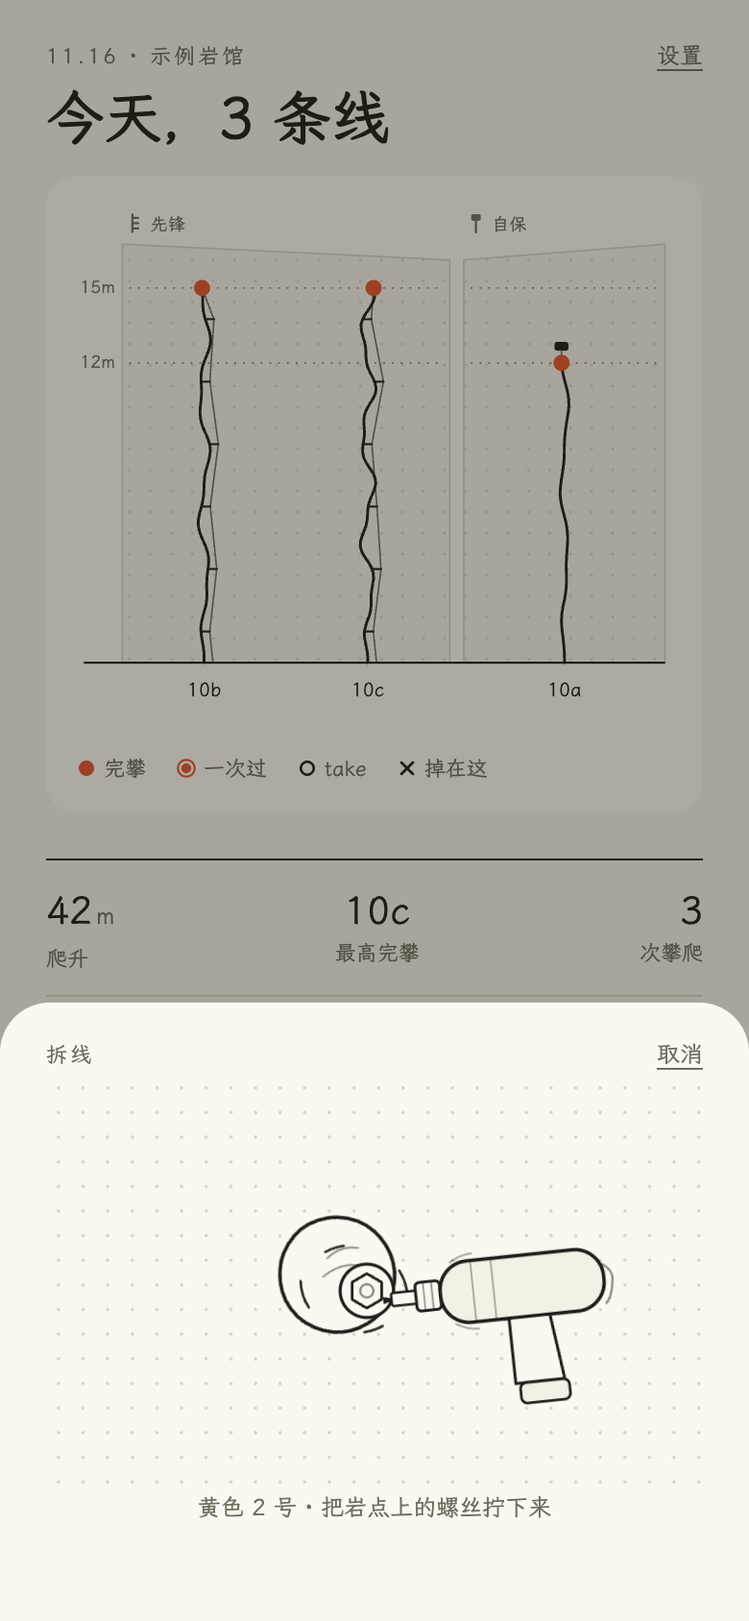
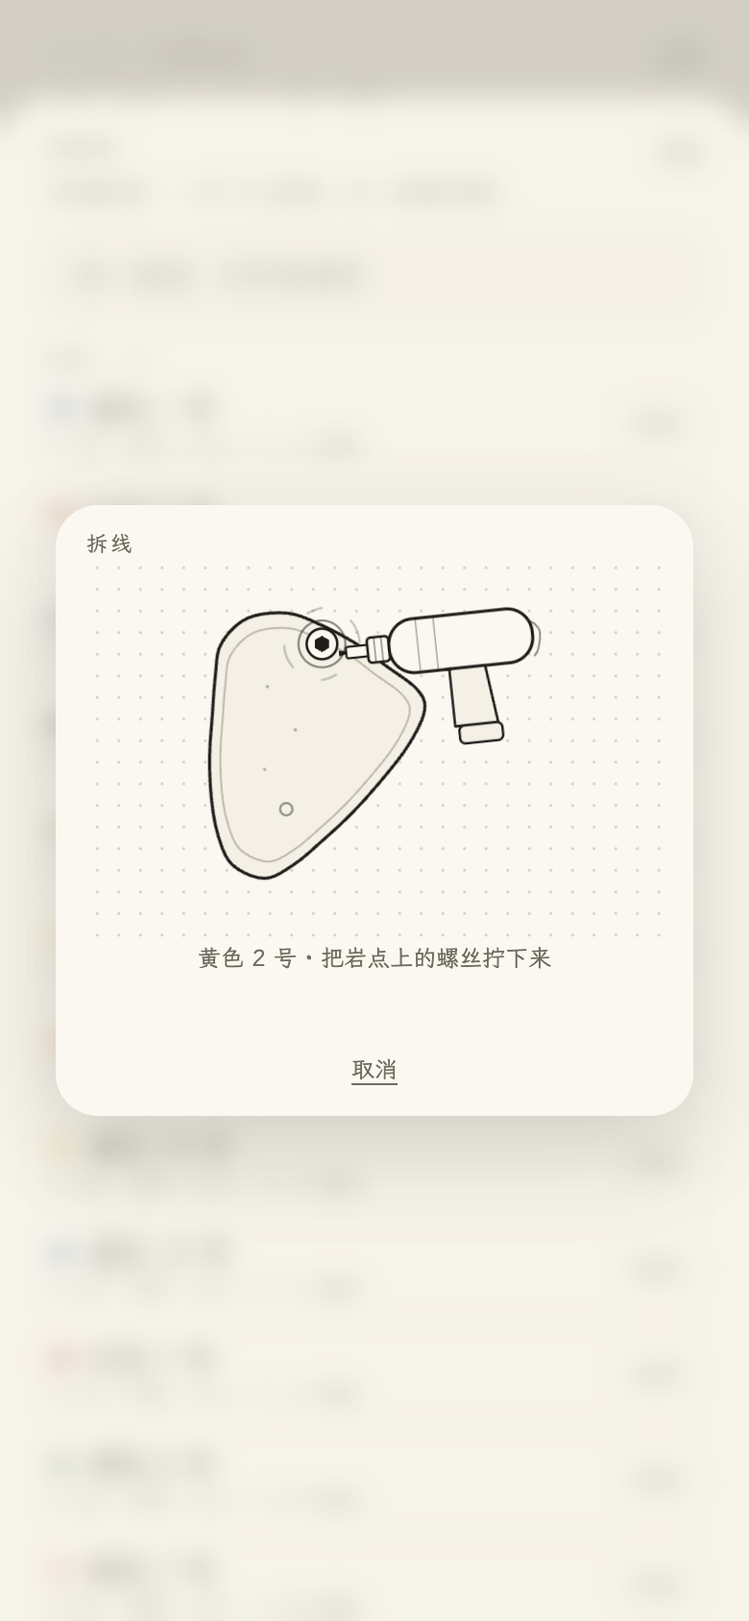
拆线动画重做：全屏居中不换页、真实 jug 岩点、M10 螺丝 + 磁吸、放慢到约 3.2 秒
- 全屏居中层 + 背景模糊，动画期间线路簿/详情页不动，不再露出今天页
- 岩点参照真实 XXL jug 照片描出轮廓，加内圈倒角和两个安装孔，尺寸放大
- 螺丝改为 M10 内六角圆柱头（ISO 4762），比岩点小；拧出后磁吸在批头上随工具抽走
- 岩点掉落、墙上留下螺丝孔（tee nut）；时间轴放慢到约 3.2 秒，取消 / reduced-motion 保留
- 产品文档 5.5 / 8.2 / 9.4 与版本历史更新；补拆线-磁吸截图

diff --git a/shengji-prototype.html b/shengji-prototype.html
@@ -160,22 +160,32 @@ button.stamp{background:none;border:none;padding:0;font:inherit;cursor:pointer}
 .bookrow .bookopen em{display:block;font-style:normal;font-family:var(--mono);font-size:11px;color:var(--muted);margin-top:3px;white-space:nowrap;overflow:hidden;text-overflow:ellipsis}
 .bookact{flex:none;border:1px solid var(--hair);background:none;border-radius:14px;padding:5px 11px;font:inherit;font-size:12px;color:var(--muted);cursor:pointer}
 .bookact:active{opacity:.6}
-/* 拆线动画：电动螺丝刀把岩点上的螺丝拧下来 */
-.stripwrap{text-align:center}
-.strip-hint{font-size:12px;color:var(--muted);margin-top:4px}
+/* 拆线：全屏居中层 + 背景模糊，动画期间页面不换 */
+.stripLayer{position:absolute;inset:0;z-index:40;display:flex;align-items:center;justify-content:center;padding:26px;
+  background:rgba(244,240,230,.55);-webkit-backdrop-filter:blur(7px);backdrop-filter:blur(7px);
+  opacity:0;pointer-events:none;transition:opacity .22s ease}
+.stripLayer.on{opacity:1;pointer-events:auto}
+.stripCard{width:100%;max-width:332px;background:var(--card);border-radius:22px;padding:14px 16px 16px;
+  box-shadow:0 18px 50px rgba(40,35,25,.18);text-align:center;transform:translateY(8px) scale(.98);
+  transition:transform .26s cubic-bezier(.2,.8,.2,1)}
+.stripLayer.on .stripCard{transform:none}
+.strip-hint{font-size:12px;color:var(--muted);margin-top:2px}
 .strip-done{font-family:var(--serif);font-size:20px;font-weight:600;color:var(--accent);margin-top:2px;opacity:0}
+.stripCard .link{margin-top:6px}
 #stBolt,#stHold{transform-box:fill-box;transform-origin:center}
-#stToolWrap{transform:translate(110px,0)}
-.stripgo #stToolWrap{animation:stToolIn .2s cubic-bezier(.2,.8,.2,1) .05s both,stToolOut .18s ease-in .7s both}
-.stripgo #stBolt{animation:stBolt .46s linear .24s both}
-.stripgo #stSpin{animation:stSpinA .46s linear .24s both}
-.stripgo #stHold{animation:stHoldFall .52s cubic-bezier(.5,.05,.9,.5) .76s both}
-.stripgo #stripDone{animation:stDone .28s ease-out 1.12s both}
-@keyframes stToolIn{from{transform:translate(110px,0)}to{transform:translate(0,0)}}
-@keyframes stToolOut{from{transform:translate(0,0)}to{transform:translate(112px,0)}}
-@keyframes stBolt{0%{transform:rotate(0);opacity:1}55%{transform:translate(7px,1px) rotate(720deg);opacity:1}100%{transform:translate(15px,-3px) rotate(900deg);opacity:0}}
-@keyframes stSpinA{0%,100%{opacity:0}20%,65%{opacity:.9}}
-@keyframes stHoldFall{0%{transform:translate(0,0) rotate(0)}18%{transform:translate(1px,-3px) rotate(-1.5deg)}100%{transform:translate(30px,170px) rotate(16deg)}}
+#stToolWrap{transform:translate(200px,0)}
+.stripgo #stToolWrap{animation:stToolIn .3s cubic-bezier(.2,.8,.2,1) .12s both,stToolOut .7s ease-in 1.6s both}
+.stripgo #stBolt{animation:stBoltSpin 1s cubic-bezier(.4,0,.6,1) .5s both}
+.stripgo #stSpin{animation:stSpinA 1s linear .5s both}
+.stripgo #stBitScrew{animation:stScrewOn .14s linear 1.57s both}
+.stripgo #stHold{animation:stHoldFall .95s cubic-bezier(.5,.05,.9,.5) 1.95s both}
+.stripgo #stripDone{animation:stDone .3s ease-out 2.75s both}
+@keyframes stToolIn{from{transform:translate(200px,0)}to{transform:translate(0,0)}}
+@keyframes stToolOut{from{transform:translate(0,0)}to{transform:translate(200px,0)}}
+@keyframes stBoltSpin{0%{transform:rotate(0);opacity:1}85%{transform:translate(7px,0) rotate(1080deg);opacity:1}100%{transform:translate(9px,0) rotate(1080deg);opacity:0}}
+@keyframes stSpinA{0%,100%{opacity:0}12%,88%{opacity:.9}}
+@keyframes stScrewOn{from{opacity:0;transform:translateX(-5px)}to{opacity:1;transform:none}}
+@keyframes stHoldFall{0%{transform:none;opacity:1}16%{transform:translate(1px,-4px) rotate(-1.2deg);opacity:1}30%{transform:translate(2px,0) rotate(0);opacity:1}100%{transform:translate(26px,150px) rotate(12deg);opacity:0}}
 @keyframes stDone{from{opacity:0;transform:translateY(4px)}to{opacity:1;transform:none}}
 nav{position:absolute;left:0;right:0;bottom:0;display:flex;background:linear-gradient(to top,var(--paper) 72%,transparent);padding:26px 18px calc(22px + env(safe-area-inset-bottom))}
 nav button{flex:1;background:none;border:none;font-family:var(--serif);font-size:15px;color:var(--muted);padding:8px 0;cursor:pointer;position:relative}
@@ -328,6 +338,7 @@ button:active:not(:disabled),label.ghostbtn:active{opacity:.6}
   </nav>
   <div class="veil" id="veil"></div>
   <div class="sheet" id="sheet"></div>
+  <div class="stripLayer" id="stripLayer"></div>
 </div>
 
 <script>
@@ -667,24 +678,77 @@ function restoreRoute(r){const t=twinOf(r);
     yes:'合并成一条',no:'改个名再装回去',onYes:()=>{mergeRoutes(r,t);closeSheet();renderAll()},onNo:()=>renameAsk(r,true)});return}
   r.retired=false;persist();
   if(mode==='routes')renderSheet();else{mode='pick';closeSheet();renderAll()}}
-/* ---------- 拆线：拿电动螺丝刀把岩点上的螺丝拧下来 ---------- */
-let stripRid=null,stripBack=null,stripTimer=null;
+/* ---------- 拆线：全屏居中层 + 电动螺丝刀把岩点上的 M10 螺丝拧下来（螺丝带磁，被批头吸走） ---------- */
+let stripRid=null,stripBack=null,stripTimer=null,stripVib=null;
 function startStrip(rid,back){
   stripRid=rid;stripBack=back||null;
   if(matchMedia('(prefers-reduced-motion: reduce)').matches){finishStrip();return}
-  mode='strip';renderSheet();phone.classList.add('open');
+  const r=R(rid),layer=$('stripLayer');
+  layer.innerHTML=`<div class="stripCard" id="stripwrap">
+    <div class="row"><div class="eyebrow">拆线</div><span></span></div>
+    <svg viewBox="0 0 320 214" width="100%" style="display:block" fill="none" stroke="var(--ink)" stroke-linecap="round" stroke-linejoin="round">
+      <defs><pattern id="stripDots" width="12" height="12" patternUnits="userSpaceOnUse"><circle cx="6" cy="6" r=".8" fill="var(--hair)" stroke="none"/></pattern></defs>
+      <rect width="320" height="214" fill="url(#stripDots)" stroke="none"/>
+      <g id="stSocket"><circle cx="130.8" cy="48.3" r="9.5" stroke="var(--muted)" stroke-width="1.2" opacity=".8"/><circle cx="130.8" cy="48.3" r="5" stroke="var(--muted)" stroke-width="1" opacity=".7"/></g>
+      <g id="stHold">
+        <path d="M89.2 34.1C95.3 31.3 104.7 30.6 111.6 31.2C118.5 31.9 124.4 35.1 130.8 38.0C137.2 40.9 144.1 44.6 150.0 48.3C155.9 52.0 160.4 56.0 166.0 60.2C171.6 64.4 180.0 69.3 183.6 73.5C187.2 77.7 188.6 80.1 187.8 85.3C187.0 90.5 183.0 97.9 178.8 104.6C174.6 111.3 168.1 118.9 162.8 125.3C157.5 131.7 152.1 137.6 146.8 143.0C141.5 148.4 136.1 153.1 130.8 157.8C125.5 162.5 120.1 167.7 114.8 171.1C109.5 174.5 104.4 178.5 98.8 178.5C93.2 178.5 85.5 175.0 81.2 171.1C76.9 167.2 75.2 161.1 73.2 154.9C71.2 148.7 70.2 141.5 69.4 134.1C68.6 126.7 68.3 118.4 68.4 110.5C68.5 102.6 69.5 94.2 70.0 86.8C70.5 79.4 70.8 72.5 71.6 66.1C72.4 59.7 71.9 53.6 74.8 48.3C77.7 43.0 83.1 37.0 89.2 34.1Z" fill="var(--paper)" stroke-width="1.7"/>
+        <path d="M92.7 42.1C98.1 39.6 106.3 39.0 112.4 39.6C118.5 40.2 123.6 43.1 129.3 45.6C134.9 48.1 141.0 51.4 146.2 54.6C151.3 57.9 155.3 61.4 160.2 65.1C165.2 68.8 172.5 73.1 175.7 76.8C178.9 80.5 180.1 82.6 179.4 87.2C178.7 91.8 175.2 98.3 171.5 104.2C167.8 110.1 162.1 116.8 157.4 122.4C152.7 128.0 148.0 133.2 143.3 138.0C138.7 142.7 134.0 146.9 129.3 151.0C124.6 155.1 119.9 159.7 115.2 162.7C110.5 165.7 106.0 169.2 101.1 169.2C96.2 169.2 89.4 166.2 85.6 162.7C81.9 159.2 80.3 153.9 78.6 148.4C76.8 143.0 75.9 136.7 75.2 130.1C74.5 123.6 74.3 116.3 74.4 109.4C74.4 102.4 75.3 95.0 75.8 88.5C76.2 82.0 76.5 76.0 77.2 70.3C77.9 64.7 77.4 59.3 80.0 54.6C82.6 49.9 87.3 44.7 92.7 42.1Z" stroke="var(--muted)" stroke-width="1" opacity=".45"/>
+        <circle cx="100.5" cy="72" r=".9" fill="var(--muted)" stroke="none" opacity=".55"/>
+        <circle cx="116" cy="96" r=".9" fill="var(--muted)" stroke="none" opacity=".55"/>
+        <circle cx="99" cy="118" r=".9" fill="var(--muted)" stroke="none" opacity=".5"/>
+        <circle cx="130.8" cy="48.3" r="13" stroke-width="1.1" opacity=".55"/>
+        <circle cx="111" cy="140.1" r="3.4" stroke-width="1.1" opacity=".5"/>
+      </g>
+      <g id="stBolt">
+        <circle cx="130.8" cy="48.3" r="8.5" fill="var(--card)" stroke-width="1.4"/>
+        <path d="M130.8 43.8l3.9 2.25v4.5l-3.9 2.25-3.9-2.25v-4.5z" fill="var(--ink)" stroke="none"/>
+      </g>
+      <g id="stSpin" opacity="0">
+        <path d="M146.8 35.3a20 20 0 0 1 5 12" stroke-width="1.2"/>
+        <path d="M114.8 61.3a20 20 0 0 1-5-12" stroke-width="1.2"/>
+        <path d="M138.8 65.3a20 20 0 0 1-8 3" stroke-width="1.2"/>
+        <path d="M122.8 31.3a20 20 0 0 1 8-3" stroke-width="1.2"/>
+      </g>
+      <g id="stToolWrap"><g transform="translate(194 48) rotate(-6)">
+        <path d="M-54-1.7l7 1.7-7 1.7z" fill="var(--ink)" stroke="none"/>
+        <rect x="-50" y="-3.2" width="13" height="6.4" rx="1.2" stroke-width="1.2" fill="var(--card)"/>
+        <rect x="-38" y="-7" width="12" height="14" rx="2.2" stroke-width="1.4" fill="var(--card)"/>
+        <path d="M-34-7v14M-30-7v14" stroke-width=".8" opacity=".5"/>
+        <rect x="-26" y="-15" width="80" height="30" rx="14" stroke-width="1.7" fill="var(--card)"/>
+        <path d="M-10-15v30M0-15v30" stroke-width=".8" opacity=".38"/>
+        <path d="M54-6.5c3 2.2 4.2 4.4 4.2 6.5S57 10.3 54 12.5" stroke-width="1.1" opacity=".5"/>
+        <path d="M6 15h20l4 32H6z" fill="var(--paper)" stroke-width="1.4"/>
+        <rect x="8" y="47" width="24" height="10" rx="3" fill="var(--paper)" stroke-width="1.3"/>
+        <path d="M4 15h3" stroke-width="1.6"/>
+        <g id="stBitScrew" opacity="0">
+          <circle cx="-63.2" cy="0" r="5" fill="var(--card)" stroke-width="1.2"/>
+          <path d="M-67.8-3l-4.2 1.4M-67.8 0h-5.4M-67.8 3l-4.2-1.4" stroke-width="1"/>
+        </g>
+      </g></g>
+    </svg>
+    <div class="strip-hint">${r?esc(r.name)+' · ':''}把岩点上的螺丝拧下来</div>
+    <div class="strip-done" id="stripDone">已拆线</div>
+    <button class="link" id="stripCancel">取消</button>
+  </div>`;
+  layer.classList.add('on');
   requestAnimationFrame(()=>{const w=$('stripwrap');if(w)w.classList.add('stripgo')});
-  clearTimeout(stripTimer);stripTimer=setTimeout(finishStrip,1650);
+  clearTimeout(stripTimer);clearTimeout(stripVib);
+  stripVib=setTimeout(()=>{if(navigator.vibrate)navigator.vibrate(8)},1600);
+  stripTimer=setTimeout(finishStrip,3250);
 }
-function cancelStrip(){if(!stripRid)return false;clearTimeout(stripTimer);stripRid=null;stripBack=null;stripTimer=null;mode='pick';return true}
+function cancelStrip(){if(!stripRid)return false;
+  clearTimeout(stripTimer);clearTimeout(stripVib);stripRid=null;stripBack=null;stripTimer=null;stripVib=null;
+  const layer=$('stripLayer');if(layer)layer.classList.remove('on');return true}
 function finishStrip(){
   if(!stripRid)return;
-  const r=R(stripRid),back=stripBack;stripRid=null;stripBack=null;stripTimer=null;
+  const r=R(stripRid),back=stripBack;stripRid=null;stripBack=null;stripTimer=null;clearTimeout(stripVib);
+  const layer=$('stripLayer');if(layer)layer.classList.remove('on');
   if(r){r.retired=true;persist()}
   if(navigator.vibrate)navigator.vibrate(12);
   if(back==='routes'){mode='routes';renderSheet()}
-  else{mode='pick';closeSheet();renderAll()}
+  else{mode='pick';renderAll()}
 }
+$('stripLayer').onclick=e=>{if(e.target.closest('#stripCancel')||e.target===$('stripLayer'))cancelStrip()};
 $('p-route').onclick=e=>{const b=e.target.closest('button');if(!b)return;const r=R(curRid);
   if(b.id==='rback')go(backTo);
   else if(b.dataset.rs!==undefined){routeSel=b.dataset.rs||null;renderRoute()}
@@ -1304,94 +1368,6 @@ function renderSheet(){
       <div id="bookList">${bookListHtml()}</div>`;
     const q=$('bookQ');if(q)q.oninput=e=>{routeBookQ=e.target.value;const bl=$('bookList');if(bl)bl.innerHTML=bookListHtml()};
     return}
-  if(mode==='strip'){const r=R(stripRid);
-    el.innerHTML=`<div class="stripwrap" id="stripwrap">
-      <div class="row"><div class="eyebrow">拆线</div><button class="link" id="stripCancel">取消</button></div>
-      <svg viewBox="0 0 320 200" width="100%" style="display:block;margin-top:4px" fill="none" stroke="var(--ink)" stroke-linecap="round" stroke-linejoin="round">
-        <defs><pattern id="stripDots" width="12" height="12" patternUnits="userSpaceOnUse"><circle cx="6" cy="6" r=".8" fill="var(--hair)" stroke="none"/></pattern></defs>
-        <rect width="320" height="200" fill="url(#stripDots)" stroke="none"/>
-        <g id="stHold">
-          <path d="M124 75c9-7 22-8 32-2 11 7 16 20 13 31-3 13-16 22-29 21-12-1-22-9-25-20-3-11 0-22 9-30z" fill="var(--card)" stroke-width="1.7"/>
-          <path d="M137 89c4-4 9-6 15-5M135 98c6-5 13-7 20-5" stroke-width="1" opacity=".45"/>
-          <circle cx="150" cy="104" r="6.2" stroke-width="1.1" opacity=".4"/>
-        </g>
-        <g id="stBolt"><circle cx="150" cy="104" r="13" fill="var(--card)" stroke-width="1.5"/>
-          <path d="M150 95.6l7.2 4.2v8.4l-7.2 4.2-7.2-4.2v-8.4z" stroke-width="1.3"/>
-          <circle cx="150" cy="104" r="3.2" stroke-width="1.1" opacity=".5"/></g>
-        <g id="stSpin" opacity="0">
-          <path d="M172 95a24 24 0 0 1 4 13" stroke-width="1.3"/>
-          <path d="M128 113a24 24 0 0 1-4-13" stroke-width="1.3"/>
-          <path d="M164 122a24 24 0 0 1-9 3" stroke-width="1.3"/>
-          <path d="M136 86a24 24 0 0 1 9-3" stroke-width="1.3"/>
-        </g>
-        <g id="stToolWrap"><g transform="translate(218 104) rotate(-6)">
-          <path d="M-54-1.7l7 1.7-7 1.7z" fill="var(--ink)" stroke="none"/>
-          <rect x="-50" y="-3.2" width="13" height="6.4" rx="1.2" stroke-width="1.2" fill="var(--card)"/>
-          <rect x="-38" y="-7" width="12" height="14" rx="2.2" stroke-width="1.4" fill="var(--card)"/>
-          <path d="M-34-7v14M-30-7v14" stroke-width=".8" opacity=".5"/>
-          <rect x="-26" y="-15" width="80" height="30" rx="14" stroke-width="1.7" fill="var(--paper)"/>
-          <path d="M-10-15v30M0-15v30" stroke-width=".8" opacity=".38"/>
-          <path d="M-20-15c4-2.4 7-3.4 11-3.4M-20 15c4 2.4 7 3.4 11 3.4" stroke-width="1" opacity=".35"/>
-          <path d="M54-6.5c3 2.2 4.2 4.4 4.2 6.5S57 10.3 54 12.5" stroke-width="1.1" opacity=".5"/>
-          <path d="M6 15h20l4 32H6z" fill="var(--card)" stroke-width="1.4"/>
-          <rect x="8" y="47" width="24" height="10" rx="3" fill="var(--paper)" stroke-width="1.3"/>
-          <path d="M4 15h3" stroke-width="1.6"/>
-        </g></g>
-      </svg>
-      <div class="strip-hint">${r?esc(r.name)+' · ':''}把岩点上的螺丝拧下来</div>
-      <div class="strip-done" id="stripDone">已拆线</div>
-    </div>`;
-    return}
-  if(mode==='set'){el.innerHTML=`
-    <div class="row"><div class="eyebrow">设置</div><button class="link" id="close">完成</button></div>
-    <div class="lbl">岩馆</div>
-    <button class="ghostbtn" id="gymBtn">${data.gym?esc(data.gym)+' · 切换或添加':'添加岩馆'}</button>
-    <div class="lbl">线路</div>
-    <button class="ghostbtn" id="openBook">线路簿 · 拆线 / 装回去</button>
-    <div class="lbl">备份</div>
-    <div class="two"><button class="ghostbtn" id="bkFile">存成文件</button><button class="ghostbtn" id="backup">复制成文字</button></div>
-    <div class="lbl">恢复</div>
-    <div class="two"><button class="ghostbtn" id="rsFile">从文件恢复</button><button class="ghostbtn" id="restore">粘贴文字恢复</button></div>
-    <input type="file" id="rsIn" accept=".json,application/json,text/plain" style="display:none">
-    <div class="sub" style="margin-top:8px">记录只存在这台设备的浏览器里。换手机或清浏览器数据之前，先备份一份，存到"文件"或发给自己。${data.bk?'上次备份：'+lab(data.bk)+'。':'还没有备份过。'}</div>
-    ${hasDemo()?'<div style="margin-top:14px;text-align:center"><button class="link" id="wipe2">清空示例数据</button></div>':''}`;return}
-  if(mode==='ask'){const a=askCfg;el.innerHTML=`
-    <div class="eyebrow">${a.title}</div>
-    <div style="margin-top:12px;font-size:14px;line-height:1.75">${a.body}</div>
-    ${a.input==null?'':a.area?`<textarea class="field" id="askIn" style="height:120px;padding:10px 14px;resize:none">${esc(a.input)}</textarea>`:`<input class="field" id="askIn" maxlength="24" value="${esc(a.input)}">`}
-    <div class="sub" id="askErr" style="color:var(--ink);min-height:20px;margin-top:6px"></div>
-    ${a.lock?`<div class="lock" id="lock">${lockSvg(a.yes)}</div><div class="sub" style="text-align:center">按住黑色锁套，往左拧开</div><button class="ghostbtn" id="askNo">${a.no||'取消'}</button>`
-      :`<div class="two"><button class="ghostbtn" id="askNo">${a.no||'取消'}</button><button class="save" id="askYes">${a.yes||'确定'}</button></div>`}`;bindLock();return}
-  if(mode==='gymf'){const gy=data.gyms.map(g=>{const cs=data.climbs.filter(c=>R(c.rid).gym===g.name);return{n:g.name,c:cs.length,d:new Set(cs.map(c=>c.date)).size,m:meters(cs)}}).filter(g=>g.c).sort((a,b)=>b.m-a.m);
-    el.innerHTML=`<div class="row"><div class="eyebrow">只看哪家岩馆</div><button class="link" id="close">取消</button></div>
-     <div class="gfl"><button data-gf="" class="${gymSel?'':'on'}"><span>全部岩馆</span><em>${dates().length} 天 · ${data.climbs.length} 次</em></button>
-       ${gy.map(g=>`<button data-gf="${esc(g.n)}" class="${g.n===gymSel?'on':''}"><span>${esc(g.n)}</span><em>${g.d} 天 · ${g.c} 次 · ${fmt(g.m)} m</em></button>`).join('')}</div>`;return}
-  if(mode==='ai'){const A=data.ai||(data.ai={goal:'',limit:''}),has=t=>(A.goal||'').split('、').includes(t);
-    el.innerHTML=`<div class="row"><div class="eyebrow">交给 AI 复盘</div><button class="link" id="close">关闭</button></div>
-     <div class="lbl">这个周期想要什么（可不填）</div>
-     <div class="aichips">${aiGoals().map(t=>`<button data-goal="${esc(t)}" class="${has(t)?'on':''}">${esc(t)}</button>`).join('')}</div>
-     <input class="field" id="aiGoal" placeholder="点上面的，或者自己写" maxlength="60" value="${esc(A.goal||'')}">
-     <div class="lbl">伤病或限制（可不填）</div>
-     <input class="field" id="aiLimit" placeholder="比如 左手中指滑车有伤，不能抠小点" maxlength="60" value="${esc(A.limit||'')}">
-     <div class="aipre" id="aiPre">${esc(aiText())}</div>
-     <button class="save" id="aiCopy">复制，去粘贴给 AI</button>
-     <div class="sub" style="margin-top:10px">范围跟着迹页顶上选的周期和岩馆走。发出去的只有上面这段统计，没有逐条记录。</div>`;
-    const up=()=>{persist();$('aiPre').textContent=aiText()};
-    $('aiGoal').oninput=e=>{A.goal=e.target.value;up();el.querySelectorAll('[data-goal]').forEach(x=>x.classList.toggle('on',has(x.dataset.goal)))};
-    $('aiLimit').oninput=e=>{A.limit=e.target.value;up()};return}
-  if(mode==='gym'){el.innerHTML=`
-    <div class="row"><div class="eyebrow">今天在哪家岩馆</div><button class="link" id="close">取消</button></div>
-    ${data.gyms.length?`<div class="seg col">${data.gyms.map((g,i)=>`<button data-gym="${i}" class="${g.name===data.gym?'on':''}">${esc(g.name)}</button>`).join('')}</div>`:'<div class="sub" style="margin-top:12px">先告诉我岩馆的名字，线路会按岩馆分开存。</div>'}
-    <input class="field" id="gymName" placeholder="新岩馆的名字" maxlength="20">
-    <button class="ghostbtn" id="gymAdd">添加并切换到它</button>`;return}
-  if(mode==='draw'){el.innerHTML=`
-    <div class="row"><div class="eyebrow">画出这条线的走向</div><button class="link" id="drawBack">返回</button></div>
-    <div class="pad" id="pad"${padPhoto?` style="background:var(--paper) url(${padPhoto}) center/cover no-repeat"`:''}><svg><polyline id="padLine" fill="none" stroke="${padPhoto?'var(--accent)':'var(--ink)'}" stroke-width="3" stroke-linecap="round" stroke-linejoin="round"/></svg></div>
-    <div class="sub" style="margin-top:8px">用手指从地面一笔画到顶，横移和拐弯都可以画出来。也可以先拍一张岩壁照片垫在下面描；照片只用来描线，不会保存。画一次，这条线以后都用这个形状。</div>
-    <div class="sub" id="drawErr" style="color:var(--ink)"></div>
-    <label class="ghostbtn" style="display:flex;align-items:center;justify-content:center">${padPhoto?'换一张照片':'拍照或选照片做底图'}<input type="file" accept="image/*" id="photo" hidden></label>
-    <div class="two"><button class="ghostbtn" id="drawAuto">用自动的线</button><button class="save" id="drawOk">用这条线</button></div>`;
-    bindPad();return}
   if(mode==='pick'){const A=active();el.innerHTML=`
     <div class="row"><div class="eyebrow">记一条线</div><button class="link" id="close">取消</button></div>
     <button class="gymchip" id="gymBtn">${esc(data.gym)} ›</button>
@@ -1492,7 +1468,6 @@ $('sheet').onclick=e=>{const b=e.target.closest('button');if(!b)return;const d=b
   if(d.strip){startStrip(d.strip,'routes');return}
   if(d.restore){restoreRoute(R(d.restore));return}
   if(b.id==='openBook'){routeBookQ='';mode='routes';renderSheet();return}
-  if(b.id==='stripCancel'){cancelStrip();closeSheet();renderAll();return}
   if(b.id==='toBook'){mode='book';renderSheet();return}
   if(b.id==='peakGo'){pickPeak(bookSel);mountView=null;closeSheet();go('mount');return}
   if(b.id==='close'){closeSheet();renderAll();return}

diff --git a/产品文档.md b/产品文档.md
@@ -152,9 +152,9 @@
 - **回放**：绳索线路 ≥2 次时可用，按当前筛选重演；字幕标出第几次、日期、方式、结果。
 - 每一次列表：结果 + 原因 + 第几次 + 日期 + 实际方式（先锋 / 顶绳 / 自保）。没有筛选时也能看出每条记录是什么方式。
 - 再记一次：默认用当前筛选的方式。
-- **拆线**：点「拆线」弹出一个小工位——电动螺丝刀伸过来把岩点上的螺丝拧下来，螺丝退出、岩点掉落，显示「已拆线」；约 1.6 秒，动画期间可以点「取消」。拆线可逆，之后随时能装回去。
+- **拆线**：点「拆线」后弹出一个**全屏居中的小工位**，背景是当前页（线路簿或详情页）模糊处理，**不切换页面**：电动螺丝刀伸向岩点（大把手 jug），把 M10 内六角螺丝拧下来；螺丝带着磁性吸在批头上，随工具一起抽走；岩点失去固定后晃动、掉落，墙上留下一个螺丝孔，最后显示「已拆线」。约 3.2 秒，动画期间可点「取消」。拆线可逆，之后随时能装回去。
 - 管理：改名、拆线 / 装回去、合并同名双胞胎、删除（丝扣锁确认）。
-- 截图：`docs/一条线-按方式筛选.png`；拆线动画：`docs/拆线-拧螺丝.png`、`docs/拆线-已拆线.png`、`docs/一条线-已拆线.png`
+- 截图：`docs/一条线-按方式筛选.png`；拆线动画：`docs/拆线-拧螺丝.png`、`docs/拆线-磁吸.png`、`docs/拆线-已拆线.png`、`docs/一条线-已拆线.png`
 
 ### 5.6 底部面板
 
@@ -293,7 +293,7 @@ data = {
 - 进"山"页：绳索从山脚长到当前高度，小人跟着爬，数字滚动，爬过的山体描深。
 - 回放：按时间重演每一次，落点累积。
 - 保存：快挂按下 340ms 后提交（`prefers-reduced-motion` 时立即执行）。
-- 拆线：电动螺丝刀伸向岩点 → 螺丝高速旋转退出（伴随转速线）→ 螺丝飞出、岩点脱落 → 「已拆线」；约 1.6 秒，可取消，`prefers-reduced-motion` 时直接完成。
+- 拆线：全屏居中层（背景模糊、页面不换）→ 电动螺丝刀伸向岩点 → M10 螺丝高速旋转退出（伴随转速线）→ 螺丝被批头磁吸住、随工具抽离 → 岩点晃动、掉落，墙上剩下螺丝孔 → 「已拆线」；约 3.2 秒，可取消，`prefers-reduced-motion` 时直接完成。
 - 不做炫技动效；所有动画都服务于"这个人现在到哪了"。
 
 ### 8.3 视觉
@@ -358,7 +358,7 @@ data = {
 - **实现**：
   - 线路簿：这家岩馆的全部线分「在爬 / 已拆线」，可搜索，行尾直接拆线 / 装回去；入口在记一条线面板和设置里。
   - 文案统一：撤线 → 拆线，已撤 → 已拆线，恢复 → 装回去。
-  - 拆线动画：电动螺丝刀拧下岩点螺丝、岩点掉落、「已拆线」，约 1.6 秒，可取消；`prefers-reduced-motion` 时跳过动画直接完成。
+  - 拆线动画（v0.3.2 重做）：全屏居中、背景模糊、不换页；岩点参照真实大把手（jug）重画；螺丝是 M10 内六角圆柱头（ISO 4762），比岩点小很多；拧出后被批头磁吸，随工具一起离开；岩点掉落、墙上留下螺丝孔；约 3.2 秒，可取消，`prefers-reduced-motion` 时跳过动画直接完成。
   - 拆线可逆：已拆线的成绩仍算在阶里（成绩不因拆线抹掉），但「正在磕」不再把它算进去；同名冲突的装回仍走合并 / 改名。
 - 截图：`docs/线路簿.png`、`docs/拆线-拧螺丝.png`、`docs/拆线-已拆线.png`、`docs/一条线-已拆线.png`
 
@@ -463,6 +463,7 @@ data = {
 | v0.2 | 2026-11-16 | 方式归每次攀爬（本次方式切换、按线路+方式聚合、统计口径全部改用 climb.mode）；线路详情支持按方式筛选（线路图 / 回放 / 记录列表 / 再记一次跟随）；阶页重构（三张方式卡 + 金字塔 + 方式落差卡，自保并入上方保护）；示例数据补充顶绳记录 |
 | v0.3 | 2026-11-16 | 观景台（9.3）：14 座山 61 站，山页刻度 / 到站卡 / 山 tab 角标 / 登顶册时间线；示例数据补到山段 |
 | v0.3.1 | 2026-11-16 | 线路簿 + 拆线动画（9.4）；文案统一为拆线 / 已拆线 / 装回去 |
+| v0.3.2 | 2026-11-16 | 拆线动画重做：全屏居中 + 背景模糊不换页；岩点参照真实 jug；M10 螺丝 + 磁吸细节；放慢到约 3.2 秒 |
 | v0.4 | 待开发 | 分享卡（11.9） |
 
 ---
